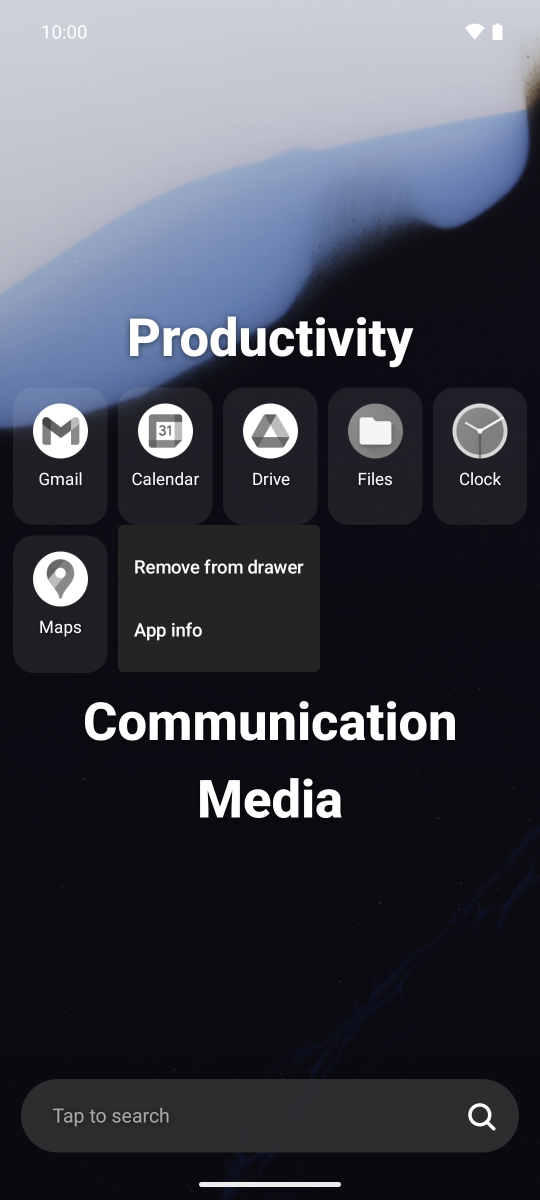
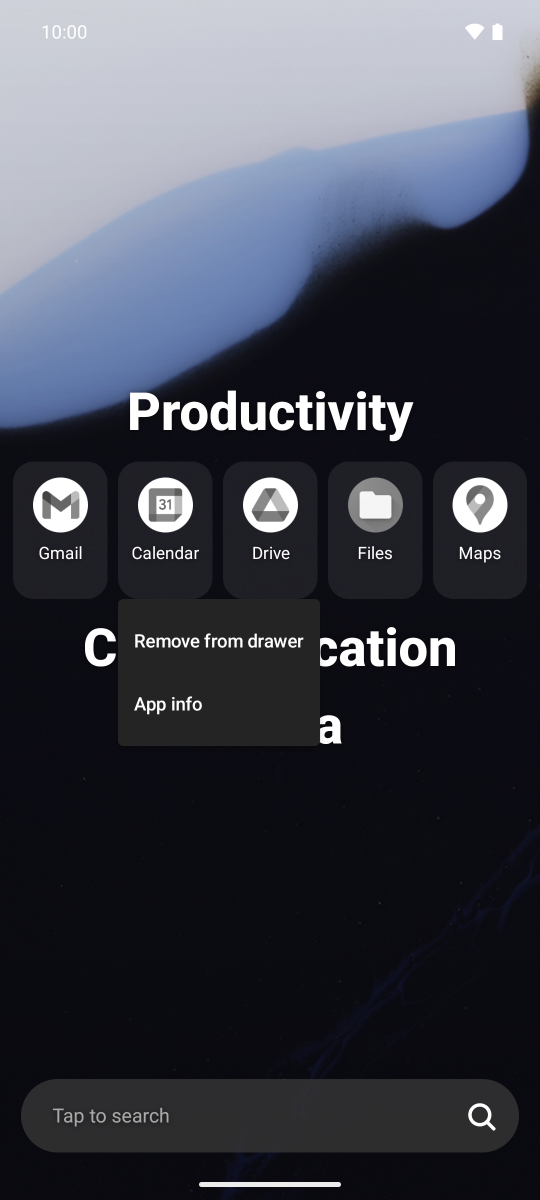
docs: keep Productivity as the only open-drawer screenshot and search for "me"
Drop Clock from Productivity, and the Communication and Media open-drawer
shots; search "me" to show Messages, Camera and Chrome.

diff --git a/app/src/androidTest/java/app/latch/ScreenshotTest.kt b/app/src/androidTest/java/app/latch/ScreenshotTest.kt
@@ -55,7 +55,7 @@ class ScreenshotTest {
         runBlocking {
             app.categories.update {
                 listOf(
-                    Category("productivity", "Productivity", 0, keys(GMAIL, CALENDAR, DRIVE, FILES, CLOCK, MAPS)),
+                    Category("productivity", "Productivity", 0, keys(GMAIL, CALENDAR, DRIVE, FILES, MAPS)),
                     Category("communication", "Communication", 1, keys(MESSAGES, PHONE, CONTACTS, CHROME)),
                     Category("media", "Media", 2, keys(PHOTOS, YOUTUBE, YT_MUSIC, CAMERA))
                 )
@@ -75,10 +75,10 @@ class ScreenshotTest {
     @Test fun captureAll() {
         shot("home")
 
-        drawer("Productivity")
-        drawer("Communication")
-        drawer("Media")
-        rule.onNodeWithTag("category:Media").performClick()
+        rule.onNodeWithTag("category:Productivity").performClick()
+        waitForTag("categoryApps:Productivity")
+        shot("drawer-productivity")
+        rule.onNodeWithTag("category:Productivity").performClick()
 
         rule.onNodeWithTag("searchIcon").performSemanticsAction(SemanticsActions.OnLongClick)
         waitForTag("quickMenu")
@@ -104,16 +104,9 @@ class ScreenshotTest {
         relaunch()
         // Set the query without focusing the field: the keyboard's suggestion strip can show the
         // (host-synced) clipboard, so keep it out of the shot.
-        scenario.onActivity { ViewModelProvider(it, LatchViewModel.Factory)[LatchViewModel::class.java].setQuery("c") }
+        scenario.onActivity { ViewModelProvider(it, LatchViewModel.Factory)[LatchViewModel::class.java].setQuery("me") }
         waitForTag("searchResults")
         shot("search")
-    }
-
-    /** Opens [name] (closing the previously open drawer) and captures it. */
-    private fun drawer(name: String) {
-        rule.onNodeWithTag("category:$name").performClick()
-        waitForTag("categoryApps:$name")
-        shot("drawer-${name.lowercase()}")
     }
 
     private fun hasTestTagPrefix(prefix: String) = SemanticsMatcher("testTag starts with $prefix") {
@@ -147,7 +140,6 @@ class ScreenshotTest {
         const val CALENDAR = "com.google.android.calendar"
         const val DRIVE = "com.google.android.apps.docs"
         const val FILES = "com.google.android.documentsui"
-        const val CLOCK = "com.google.android.deskclock"
         const val MAPS = "com.google.android.apps.maps"
         const val MESSAGES = "com.google.android.apps.messaging"
         const val PHONE = "com.google.android.dialer"

diff --git a/README.md b/README.md
@@ -11,11 +11,10 @@ A minimal, text-first Android launcher: a centered list of user-defined **catego
 
 ## Screenshots
 
-|                                                                                                |                                                                                                                     |                                                                                                                        |
-| :--------------------------------------------------------------------------------------------: | :-----------------------------------------------------------------------------------------------------------------: | :--------------------------------------------------------------------------------------------------------------------: |
-|             <img src="assets/screenshots/home.png" alt="Home" width="200"><br>Home             | <img src="assets/screenshots/drawer-productivity.png" alt="Productivity drawer" width="200"><br>Productivity drawer | <img src="assets/screenshots/drawer-communication.png" alt="Communication drawer" width="200"><br>Communication drawer |
-| <img src="assets/screenshots/drawer-media.png" alt="Media drawer" width="200"><br>Media drawer |                 <img src="assets/screenshots/app-menu.png" alt="App menu" width="200"><br>App menu                  |            <img src="assets/screenshots/app-drawer.png" alt="A–Z app drawer" width="200"><br>A–Z app drawer            |
-|          <img src="assets/screenshots/search.png" alt="Search" width="200"><br>Search          |              <img src="assets/screenshots/quick-menu.png" alt="Quick menu" width="200"><br>Quick menu               |                   <img src="assets/screenshots/settings.png" alt="Settings" width="200"><br>Settings                   |
+|                                                                              |                                                                                                     |                                                                                    |                                                                                                  |
+| :--------------------------------------------------------------------------: | :-------------------------------------------------------------------------------------------------: | :--------------------------------------------------------------------------------: | :----------------------------------------------------------------------------------------------: |
+|    <img src="assets/screenshots/home.png" alt="Home" width="200"><br>Home    | <img src="assets/screenshots/drawer-productivity.png" alt="Open drawer" width="200"><br>Open drawer | <img src="assets/screenshots/app-menu.png" alt="App menu" width="200"><br>App menu | <img src="assets/screenshots/app-drawer.png" alt="A–Z app drawer" width="200"><br>A–Z app drawer |
+| <img src="assets/screenshots/search.png" alt="Search" width="200"><br>Search |      <img src="assets/screenshots/quick-menu.png" alt="Quick menu" width="200"><br>Quick menu       | <img src="assets/screenshots/settings.png" alt="Settings" width="200"><br>Settings |                                                                                                  |
 
 ## Install
 
